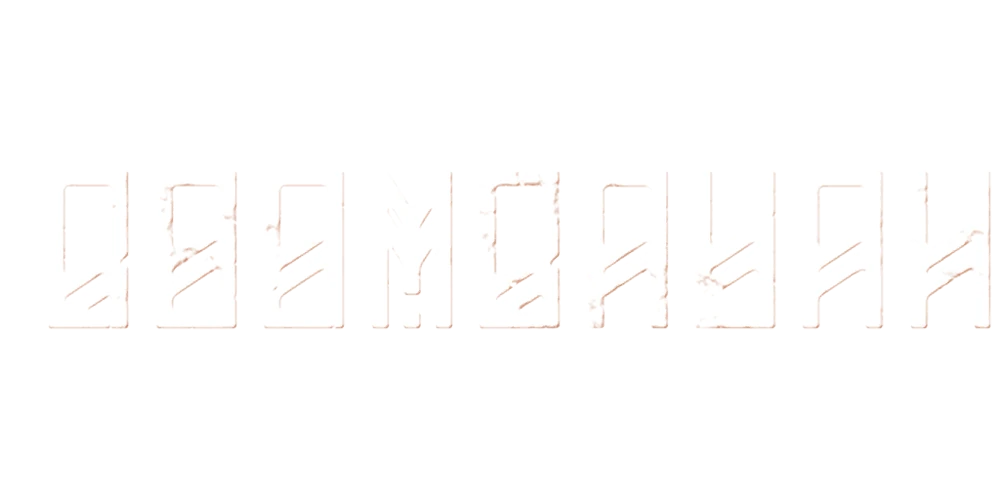
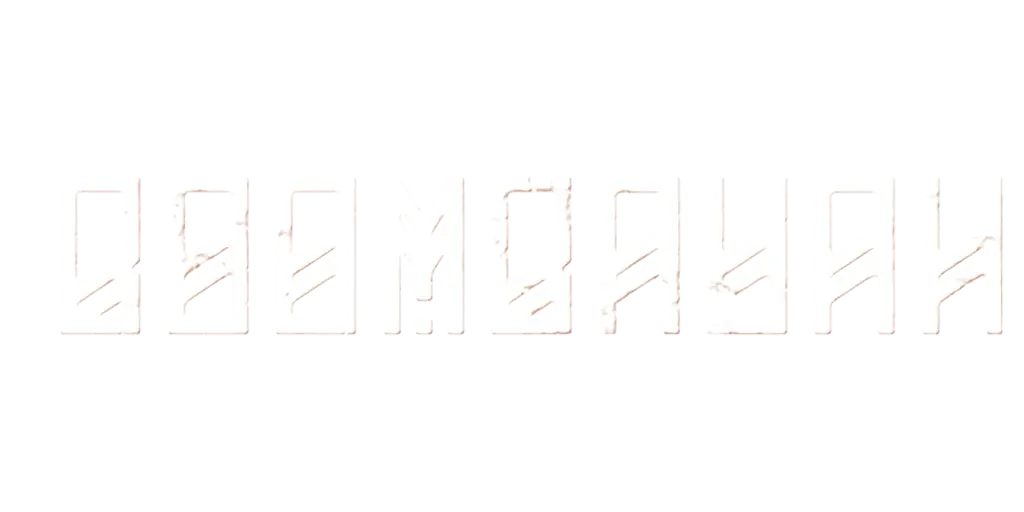
Update title image dimensions in README.md and replace existing cover images

diff --git a/README.md b/README.md
@@ -1,9 +1,9 @@
 # Just Dance Next Covers
 This repository contains a collection of covers in the Just Dance Next (2023+) format.
-Each song contains a 640x360 cover image and a 1000x500 title image.
+Each song contains a 640x360 cover image and a 1024x512 title image.
 
 # Contributing
 If you would like to contribute, please follow these guidelines:
 - Make sure to include the title in the cover image and save the title seperately as a Title.webp.
-- Use the same format as the existing covers (640x360 for cover and 1000x500 for title), both in webp format.
+- Use the same format as the existing covers (640x360 for cover and 1024x512 for title), both in webp format.
 - If your song has multiple codenames, put them inside `Covers.json`.
